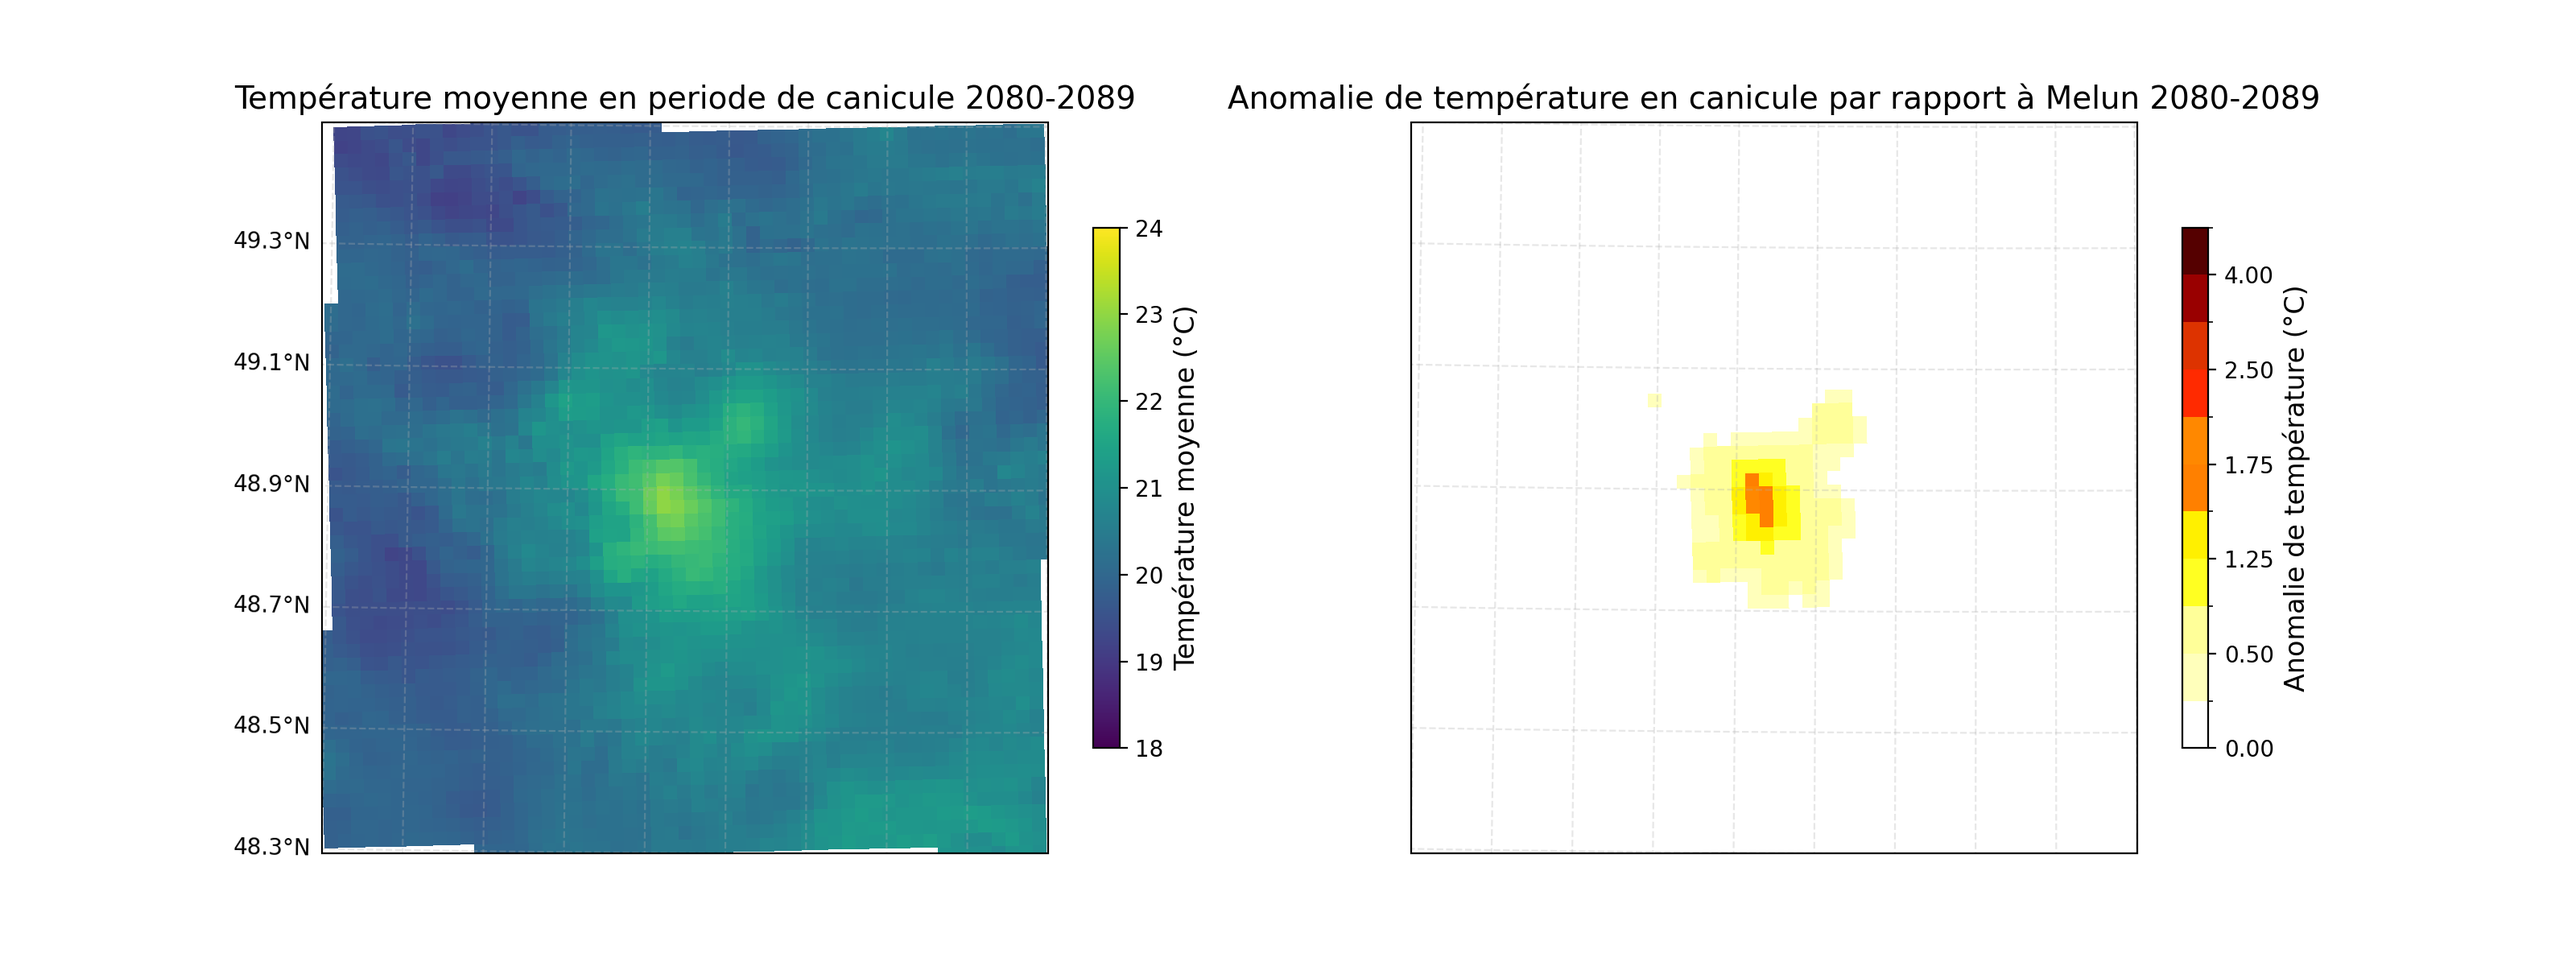
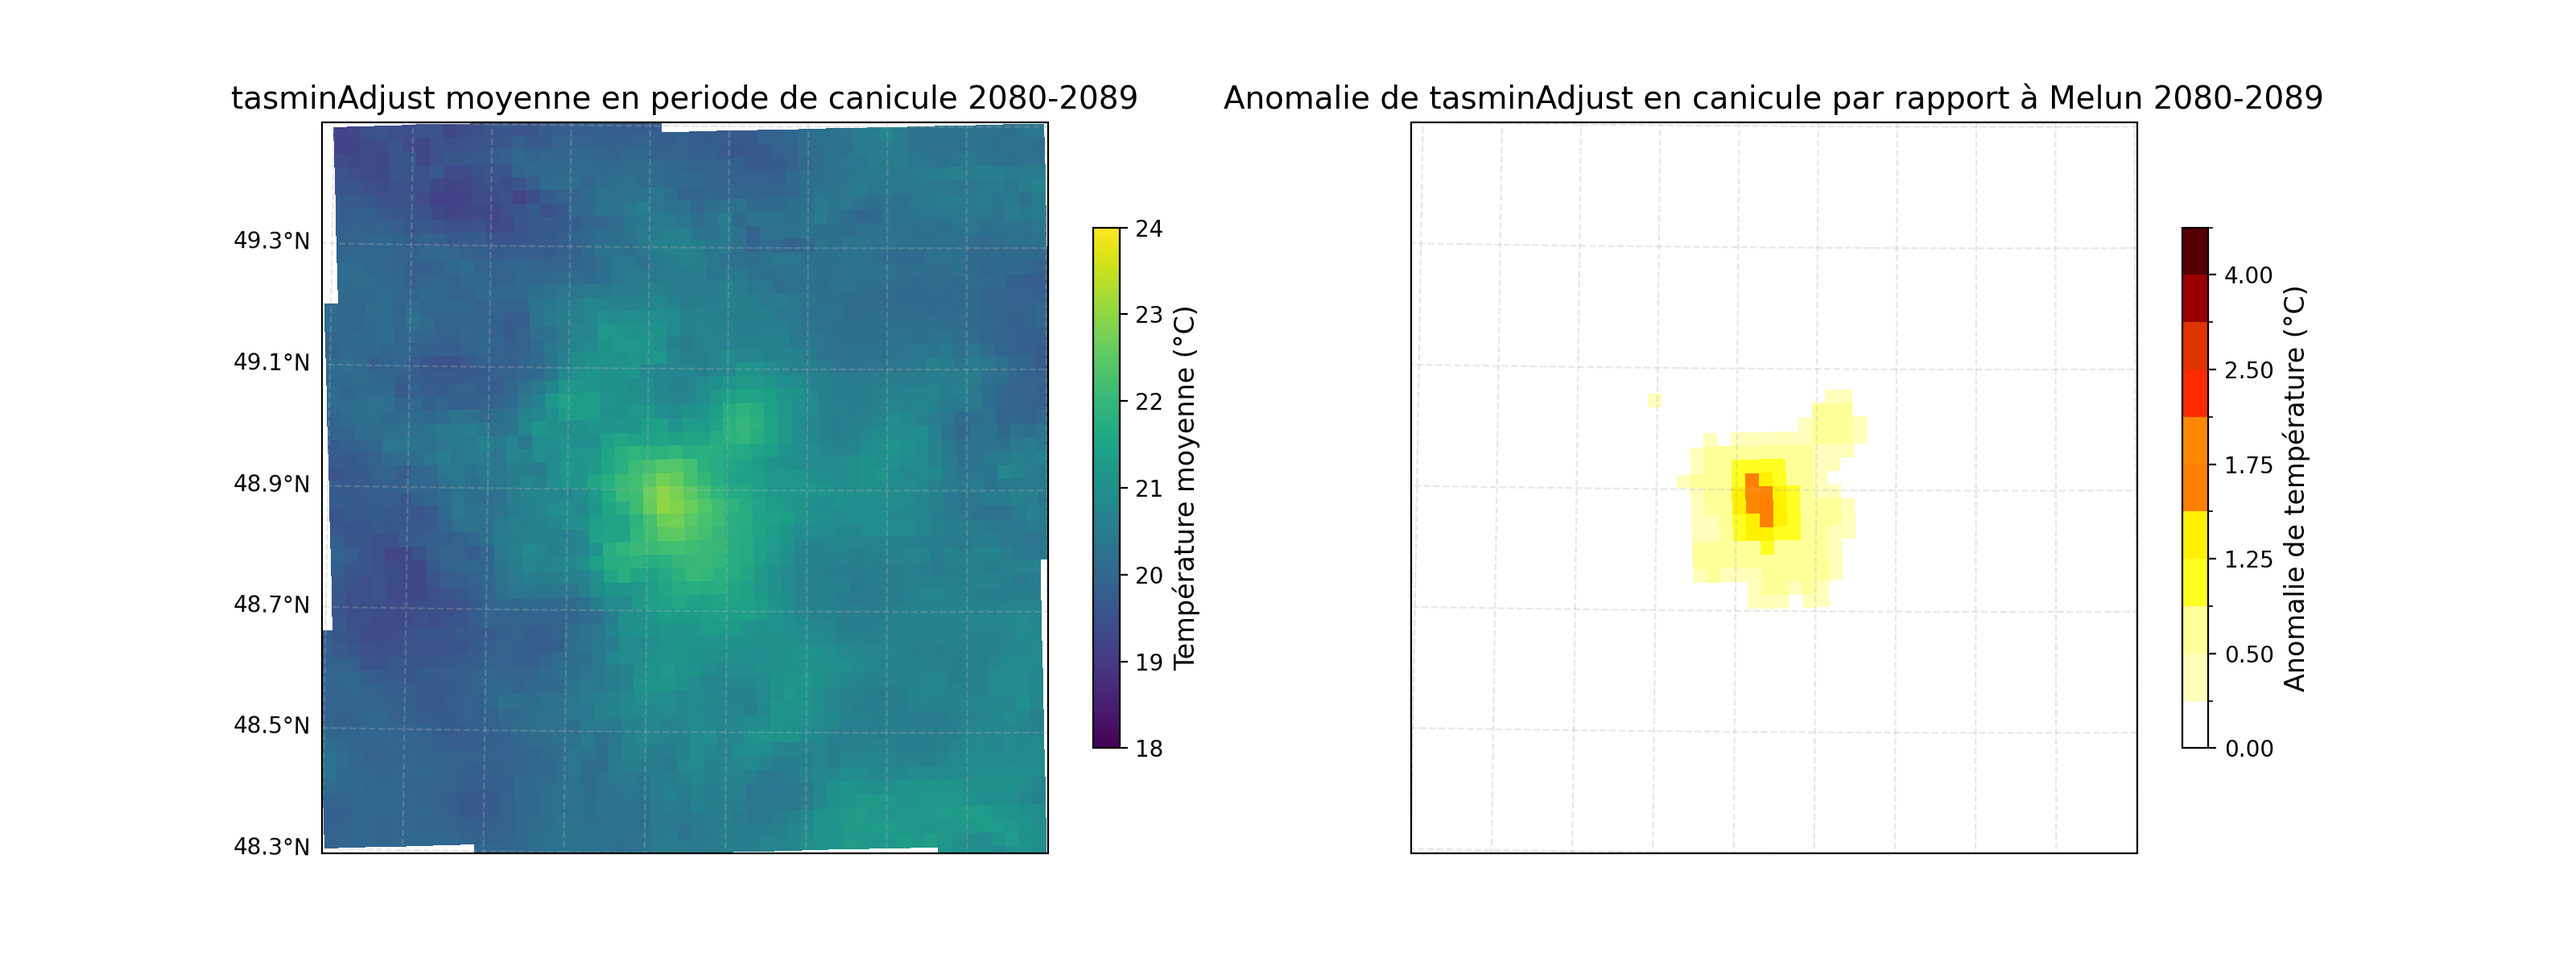
correction titre

Changed region(s): [[0.4688, 0.0925, 0.9062, 0.1233], [0.0938, 0.0925, 0.4375, 0.1233]]

diff --git a/main_year.py b/main_year.py
@@ -77,11 +77,9 @@ def jour_canicule(occurrence_canicule):
 ###########################################
 #   AFFICHAGE
 ###########################################
-def AFFICHAGE(moy_T, anomalie_par_melun, i_param, i_periode, lat_min, lat_max, lon_min, lon_max):
+def AFFICHAGE(moy_T, anomalie_par_melun, i_param, annee, lat_min, lat_max, lon_min, lon_max):
     lats_data = moy_T['lat'].values
     lons_data = moy_T['lon'].values
-
-    periode_bis = ["2015-2019","2020-2029","2030,2039","2040-2049","2050-2059","2060-2069","2070-2079","2080-2089","2090-2099"]
 
     # Création figure avec deux sous-graphes
     fig, axs = plt.subplots(
@@ -135,7 +133,7 @@ def AFFICHAGE(moy_T, anomalie_par_melun, i_param, i_periode, lat_min, lat_max, l
     )
     cbar0 = plt.colorbar(mm0, ax=ax, orientation='vertical', shrink=0.7)
     cbar0.set_label('Température moyenne (°C)', fontsize=12)
-    ax.set_title(f"{parametre[i_param]} moyenne en periode de canicule {periode_bis[i_periode]}", fontsize=14)
+    ax.set_title(f"{parametre[i_param]} moyenne en periode de canicule en {annee}", fontsize=14)
 
     # --- Anomalie par rapport à Melun ---
     ax = axs[1]
@@ -168,14 +166,14 @@ def AFFICHAGE(moy_T, anomalie_par_melun, i_param, i_periode, lat_min, lat_max, l
     )
     cbar1 = plt.colorbar(mm1, ax=ax, orientation='vertical', shrink=0.7)
     cbar1.set_label('Anomalie de température (°C)', fontsize=12)
-    ax.set_title(f"Anomalie de {parametre[i_param]} en canicule par rapport à Melun {periode_bis[i_periode]}", fontsize=14)
+    ax.set_title(f"Anomalie de {parametre[i_param]} en canicule par rapport à Melun en {annee}", fontsize=14)
     
 
 
     # Sauvegarde
-    chemin_fig = "Cartes/"
+    chemin_fig = "Cartes/Annuel/"
     os.makedirs(chemin_fig, exist_ok=True)
-    plt.savefig(chemin_fig + f"carte_{parametre[i_param]}_IDF_{periode_bis[i_periode]}.png", dpi=200)
+    plt.savefig(chemin_fig + f"carte_{parametre[i_param]}_IDF_{annee}.png", dpi=200)
     plt.close()
 
 ################################################################################################################################################################
@@ -203,7 +201,8 @@ lat_min, lat_max = 48.3, 49.5
 lon_min, lon_max = 1.5, 3.3
 
 
-for i_periode in range(0,9):
+for i_periode in range(1,2):
+    
     i_param = 0
     T_data = xr.open_dataset(El_Allocator(i_param,i_periode))
 
@@ -238,38 +237,40 @@ for i_periode in range(0,9):
     occurrence_canicule_IDF = occurrence_canicule(Tx_data_IDF, Tn_data_IDF, seuilx_IDF, seuiln_IDF)
     jour_canicule_IDF = jour_canicule(occurrence_canicule_IDF)
 
+    annee = list(np.unique(jour_canicule_IDF["time"].dt.year))
 
-    ###########################################
-    #   Restriction des données aux canicules
-    ###########################################
-    T_IDF_canicule = T_data_IDF.sel(time=jour_canicule_IDF)#.sel(time='2059')
-    T_Melun_canicule = T_data_Melun.sel(time=jour_canicule_IDF)#.sel(time='2059')
+    for year in annee:
+        ###########################################
+        #   Restriction des données aux canicules
+        ###########################################
+        T_IDF_canicule = T_data_IDF.sel(time=jour_canicule_IDF).sel(time=str(year))
+        T_Melun_canicule = T_data_Melun.sel(time=jour_canicule_IDF).sel(time=str(year))
 
-    Tx_IDF_canicule = Tx_data_IDF.sel(time=jour_canicule_IDF)#.sel(time='2059')
-    Tx_Melun_canicule = Tx_data_Melun.sel(time=jour_canicule_IDF)#.sel(time='2059')
+        Tx_IDF_canicule = Tx_data_IDF.sel(time=jour_canicule_IDF).sel(time=str(year))
+        Tx_Melun_canicule = Tx_data_Melun.sel(time=jour_canicule_IDF).sel(time=str(year))
 
-    Tn_IDF_canicule = Tn_data_IDF.sel(time=jour_canicule_IDF)#.sel(time='2059')
-    Tn_Melun_canicule = Tn_data_Melun.sel(time=jour_canicule_IDF)#.sel(time='2059')
+        Tn_IDF_canicule = Tn_data_IDF.sel(time=jour_canicule_IDF).sel(time=str(year))
+        Tn_Melun_canicule = Tn_data_Melun.sel(time=jour_canicule_IDF).sel(time=str(year))
 
 
-    ###########################################
-    #   Moyennes temporelles
-    ###########################################
-    i_param = 2
+        ###########################################
+        #   Moyennes temporelles
+        ###########################################
+        i_param = 2
 
-    if i_param==0:
-        moy_T_IDF_canicule = T_IDF_canicule.mean(dim="time", skipna=True) - 273.15
-        moy_T_melun_canicule = T_Melun_canicule.mean(dim="time", skipna=True) - 273.15
+        if i_param==0:
+            moy_T_IDF_canicule = T_IDF_canicule.mean(dim="time", skipna=True) - 273.15
+            moy_T_melun_canicule = T_Melun_canicule.mean(dim="time", skipna=True) - 273.15
 
-    elif i_param==1:
-        moy_T_IDF_canicule = Tx_IDF_canicule.mean(dim="time", skipna=True) - 273.15
-        moy_T_melun_canicule = Tx_Melun_canicule.mean(dim="time", skipna=True) - 273.15
+        elif i_param==1:
+            moy_T_IDF_canicule = Tx_IDF_canicule.mean(dim="time", skipna=True) - 273.15
+            moy_T_melun_canicule = Tx_Melun_canicule.mean(dim="time", skipna=True) - 273.15
 
-    elif i_param==2:
-        moy_T_IDF_canicule = Tn_IDF_canicule.mean(dim="time", skipna=True) - 273.15
-        moy_T_melun_canicule = Tn_Melun_canicule.mean(dim="time", skipna=True) - 273.15
+        elif i_param==2:
+            moy_T_IDF_canicule = Tn_IDF_canicule.mean(dim="time", skipna=True) - 273.15
+            moy_T_melun_canicule = Tn_Melun_canicule.mean(dim="time", skipna=True) - 273.15
 
-    anomalie_par_melun = moy_T_IDF_canicule - moy_T_melun_canicule
+        anomalie_par_melun = moy_T_IDF_canicule - moy_T_melun_canicule
 
-    AFFICHAGE(moy_T_IDF_canicule, anomalie_par_melun,i_param, i_periode, lat_min, lat_max, lon_min, lon_max)
-    print(periode[i_periode])
+        AFFICHAGE(moy_T_IDF_canicule, anomalie_par_melun,i_param, annee, lat_min, lat_max, lon_min, lon_max)
+        print(annee)
